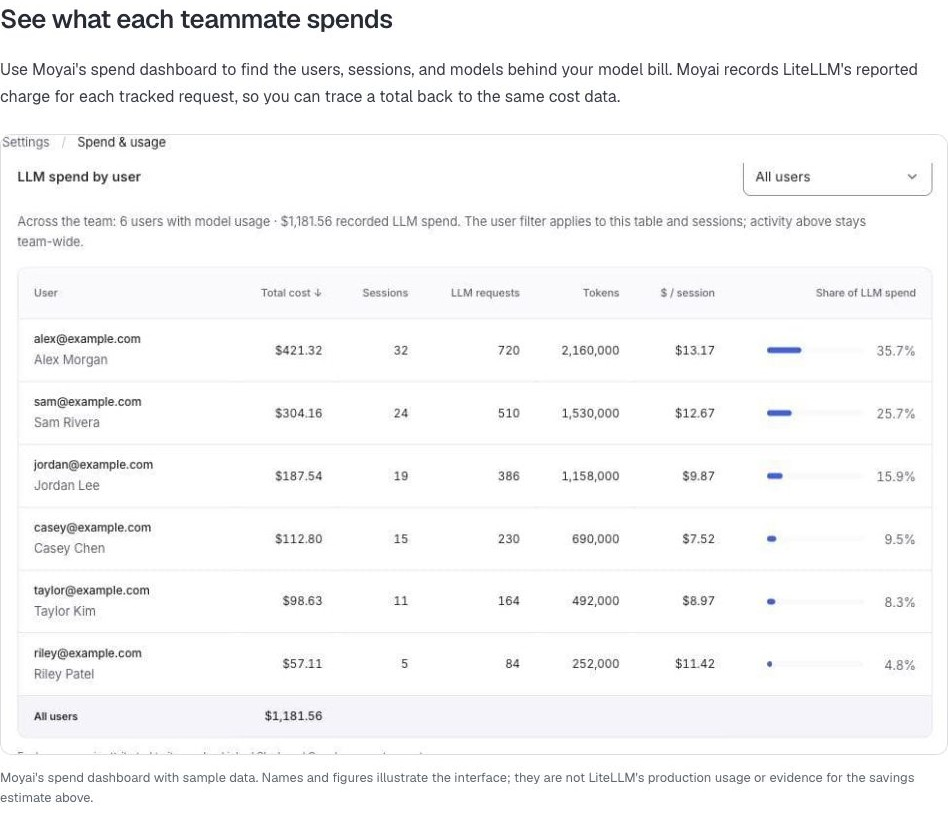
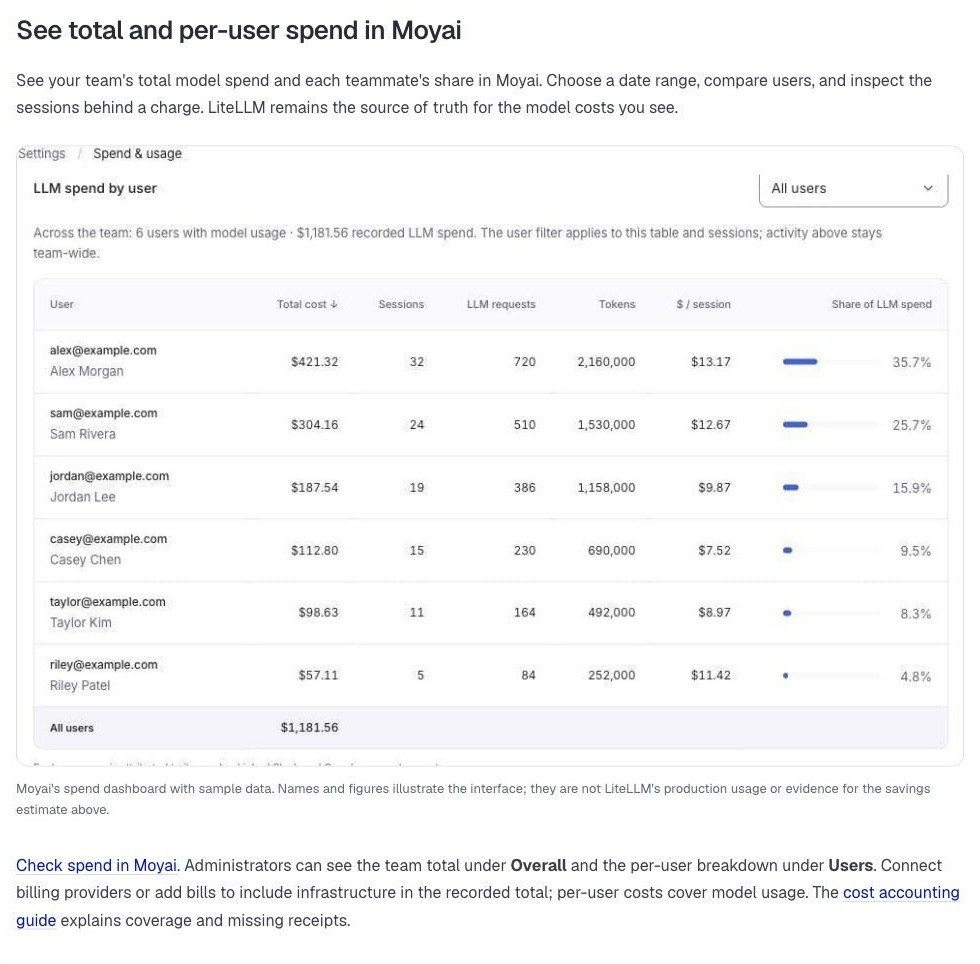
docs: check total and per-user spend in Moyai

diff --git a/src/components/Moyai/index.js b/src/components/Moyai/index.js
@@ -95,8 +95,8 @@ export function BenefitGrid() {
       <section aria-labelledby="budget-your-agents">
         <span className={styles.number}>03</span>
         <Heading as="h3" id="budget-your-agents">One source of truth for model costs</Heading>
-        <p>Use LiteLLM as your source of truth for model charges. In Moyai, see those same charges by user, session, and model. Trace a teammate's total back to the requests behind it.</p>
-        <Link className={styles.proofLink} to="#see-agent-spend">See the spend breakdown <ArrowRight size={15} aria-hidden="true" /></Link>
+        <p>Check total model spend and per-user costs in Moyai. LiteLLM stays the source of truth: both views use the charges it reports for each tracked request. Drill into sessions and models to understand a teammate's total.</p>
+        <Link className={styles.proofLink} to="#see-agent-spend">See spend in Moyai <ArrowRight size={15} aria-hidden="true" /></Link>
       </section>
       <section aria-labelledby="choose-your-stack">
         <span className={styles.number}>04</span>

diff --git a/docs/self_hosted_coding_agents/moyai/setup.md b/docs/self_hosted_coding_agents/moyai/setup.md
@@ -166,18 +166,26 @@ An organization owner or someone with permission to register and install the org
 
 **Check:** open the PR, inspect the diff, and confirm the reported checks. Review and merge it yourself. Enabled connected-app writes execute under connection policies without a per-use approval prompt; pause a connection or use read-only access when appropriate.
 
-## 7. Check the spend {#track-spend}
+## 7. Check spend in Moyai {#track-spend}
 
-As a Moyai administrator, open **Settings > Administration > Spend & usage** to inspect costs by user, session, and model. Members can see their own costs under **Settings > Workspace > Spend**. In the LiteLLM Admin UI, open **Logs > Filters** and set **Key Alias** to `moyai`.
+Use Moyai's dashboard to check the total and see what each teammate spent.
 
-<Image
-  img={require('../../../img/moyai_gateway_logs.png')}
-  dark={require('../../../img/moyai_gateway_logs_dark.png')}
-  alt="LiteLLM request logs filtered to the moyai virtual key"
-  style={{width: '100%', display: 'block', margin: '1.5rem 0'}}
-/>
+1. As a Moyai administrator, open **Settings > Administration > Spend & usage** and choose a date range.
+2. Open **Overall** to see the team's **LLM costs** and recorded total. Infrastructure costs appear alongside model costs after you connect billing providers or add bills.
+3. Open **Users** to see each teammate's model cost, sessions, request count, and share of spend. With **All users** selected, the table footer shows the team's total model spend. Select a user to inspect their sessions.
 
-Moyai attaches its request ID in `x-litellm-call-id` and `spend_logs_metadata.moyai_request_id`. Use that ID to reconcile a request across the two systems. For streaming costs, keep `include_cost_in_streaming_usage: true` on the gateway and verify native endpoint support in your deployed version. [Cost accounting](./architecture.md#cost-accounting) explains missing receipts and recovery permissions. Include Modal hosting, sandbox, and storage charges in your trial total.
+Members can check their own model costs under **Settings > Workspace > Spend**.
+
+<figure>
+  <Image
+    img={require('../../../img/moyai_spend_users.jpg')}
+    alt="Moyai's Users tab with each teammate's model spend and an All users total at the bottom."
+    style={{width: '100%', display: 'block', margin: '1.5rem 0'}}
+  />
+  <figcaption>Moyai's spend dashboard with sample data. The All users row sums the per-user model costs for the selected date range.</figcaption>
+</figure>
+
+**Check:** find your setup task in your user's sessions and confirm its recorded model cost. LiteLLM supplies the model charges shown in Moyai. Requests without a final price remain marked as pending or missing; the [cost accounting guide](./architecture.md#cost-accounting) explains receipt recovery. Per-user totals cover model usage; shared infrastructure appears in the workspace total.
 
 ## Troubleshooting
 

diff --git a/docs/self_hosted_coding_agents/moyai/architecture.md b/docs/self_hosted_coding_agents/moyai/architecture.md
@@ -142,12 +142,14 @@ The default Modal sandbox uses container isolation; optional VM execution is a s
 
 ## Cost accounting {#cost-accounting}
 
-Moyai uses LiteLLM as the source of truth for model costs. It stores the gateway's final charge for each tracked request and sums those same charges by user, session, and model. It preserves decimal precision instead of estimating prices from token counts.
+Moyai uses LiteLLM as the source of truth for model costs. It stores the gateway's final charge for each tracked request and sums those same charges into the workspace model total and the breakdowns by user, session, and model. It preserves decimal precision instead of estimating prices from token counts. Administrators can see these totals in Moyai's **Spend & usage** dashboard under **Overall** and **Users**. Infrastructure costs use separate provider reports and bills; they contribute to the workspace total but not the per-user model totals.
 
 Moyai reserves a request identity before inference and attributes usage to the original user, message, session, and model. It captures final response costs for non-streaming requests and final usage costs for streams; an initial stream header is not a final bill.
 
 If a receipt is missing, background recovery can query LiteLLM's `/spend/logs/v2` using the same gateway key with the added permission. This recovers accounting without rerunning inference or changing an interrupted task's execution status. Unknown costs remain visible. Keep provider inference and hosting/storage charges distinct when evaluating the installation.
 
 The totals cover tracked Moyai requests with recorded costs. Calls outside Moyai, gateway-internal billed attempts absent from returned costs, and unresolved receipts can leave a difference from the gateway key's total. Use the dashboard's coverage and per-request amounts when reconciling spend.
+
+To compare an individual charge with LiteLLM, open **Logs > Filters** in the LiteLLM Admin UI and set **Key Alias** to `moyai`. Match Moyai's request ID using `x-litellm-call-id` or `spend_logs_metadata.moyai_request_id`. For streaming costs, keep `include_cost_in_streaming_usage: true` on the gateway and verify native endpoint support in your deployed version.
 
 See [costs and receipt recovery](https://github.com/BerriAI/moyai/blob/main/docs/costs.md) and [the setup spend check](./setup.md#track-spend).

diff --git a/docs/self_hosted_coding_agents/moyai.md b/docs/self_hosted_coding_agents/moyai.md
@@ -42,20 +42,20 @@ See a team ask Moyai to investigate a bug, run regression tests, and return a pu
 
 <BugWorkflowDemo />
 
-## See what each teammate spends {#see-agent-spend}
+## See total and per-user spend in Moyai {#see-agent-spend}
 
-Use Moyai's spend dashboard to find the users, sessions, and models behind your model bill. Moyai records LiteLLM's reported charge for each tracked request, so you can trace a total back to the same cost data.
+See your team's total model spend and each teammate's share in Moyai. Choose a date range, compare users, and inspect the sessions behind a charge. LiteLLM remains the source of truth for the model costs you see.
 
 <figure className={styles.spendFigure}>
   <Image
     img={require('../../img/moyai_spend_users.jpg')}
-    alt="Moyai's LLM spend by user table showing each teammate's recorded cost, session count, model requests, and share of team spend."
+    alt="Moyai's spend dashboard showing total model spend in the All users row and each teammate's cost, sessions, model requests, and share of spend."
     style={{width: '100%', display: 'block'}}
   />
   <figcaption>Moyai's spend dashboard with sample data. Names and figures illustrate the interface; they are not LiteLLM's production usage or evidence for the savings estimate above.</figcaption>
 </figure>
 
-[Check a request against LiteLLM](./moyai/setup.md#track-spend). The [cost accounting guide](./moyai/architecture.md#cost-accounting) explains coverage and missing receipts. Cloud hosting and storage costs remain separate from these model charges.
+[Check spend in Moyai](./moyai/setup.md#track-spend). Administrators can see the team total under **Overall** and the per-user breakdown under **Users**. Connect billing providers or add bills to include infrastructure in the recorded total; per-user costs cover model usage. The [cost accounting guide](./moyai/architecture.md#cost-accounting) explains coverage and missing receipts.
 
 ## Start with a bug your team already knows {#put-moyai-to-work}
 
